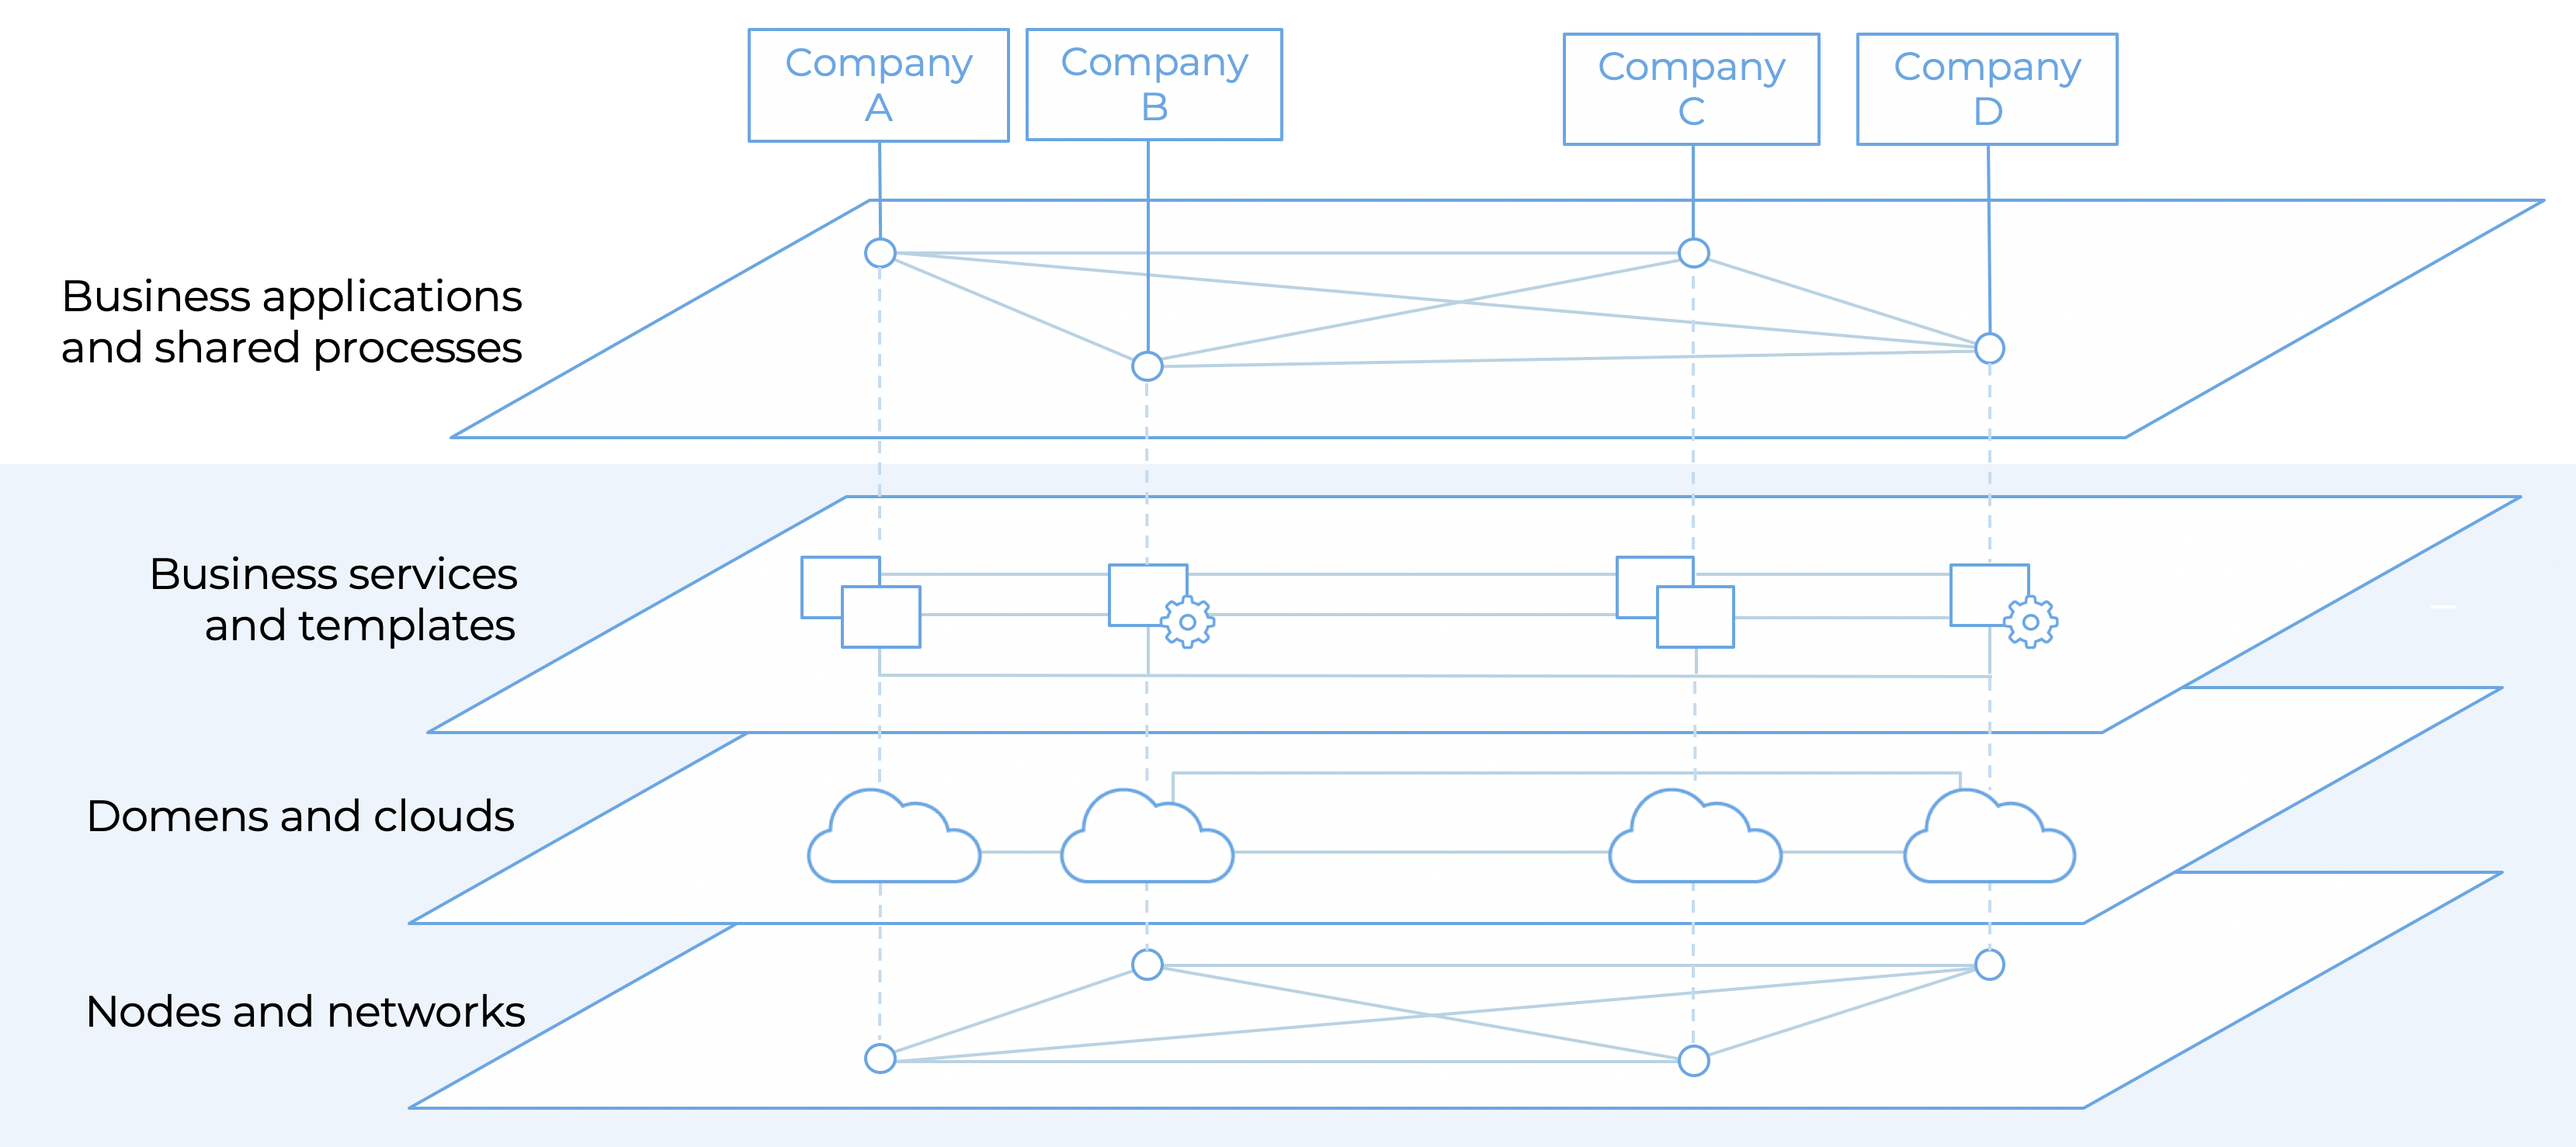
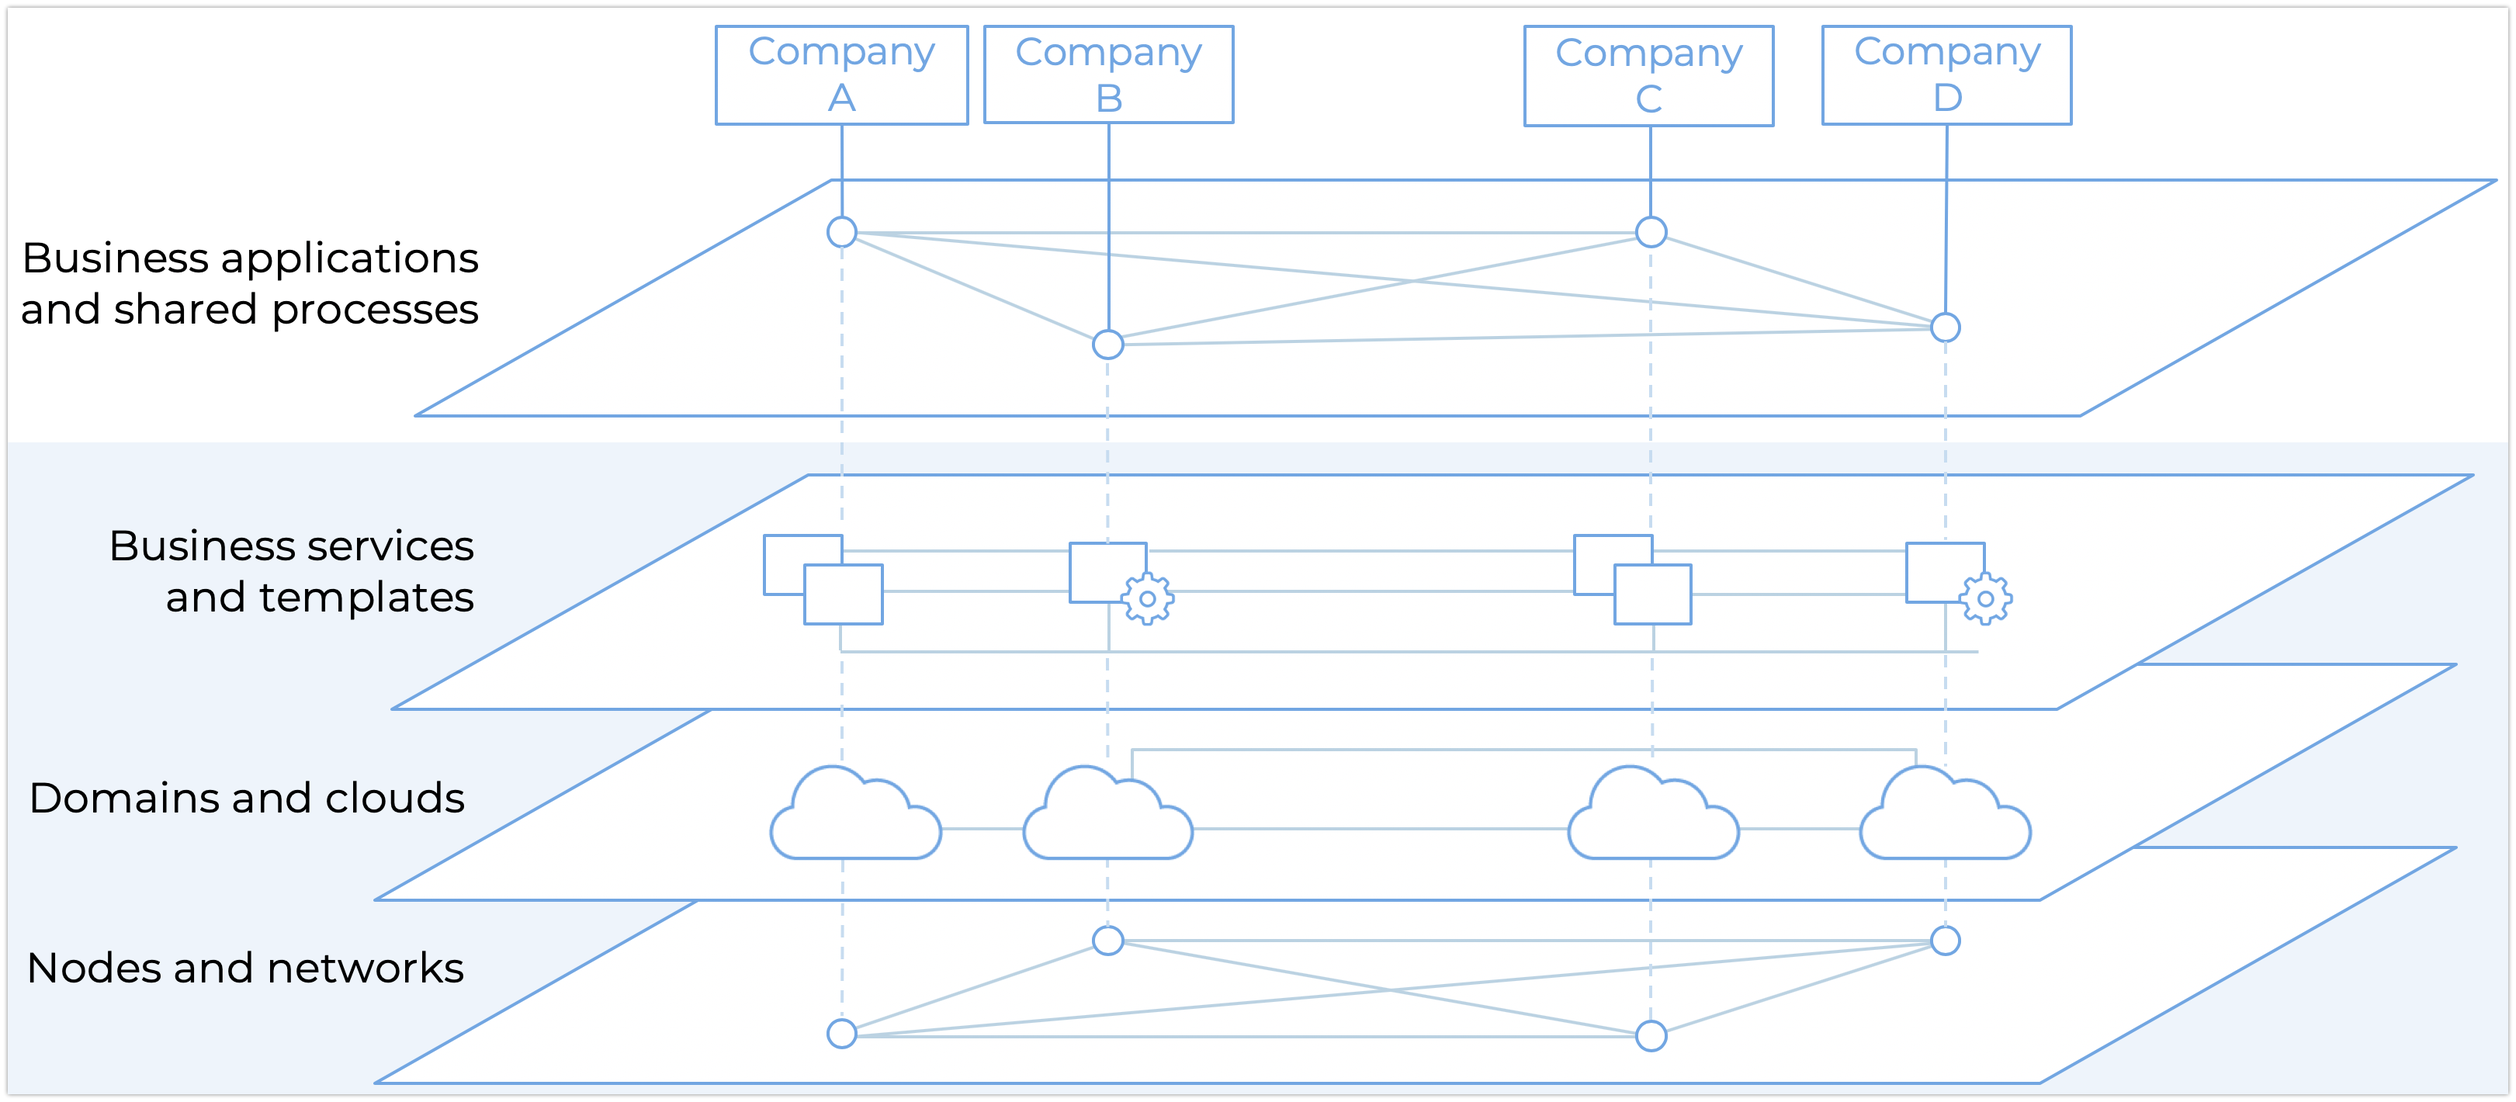
Red pill upds

diff --git a/docs/source/basics.rst b/docs/source/basics.rst
@@ -13,7 +13,14 @@ To understand Insolar, let's zoom out and take a look at the big picture.
 The Big Picture
 ---------------
 
-Below is an illustration of the layered architecture that facilitates such a collaborative environment. The use of multilayer architecture makes platform design a challenging task, but with proper use it enables building complex solutions with better control of development risks and, later, ownership costs. Insolar is currently designing the proposed platform in an incremental fashion allowing it to progressively grow into the ultimate decentralized collaborative environment for various kinds of industries, companies, governments, and communities.
+Every enterprise (actor), however big and reliable, is having a hard time:
+
+* convincing its counterparties that they (the actor) should hold a centralized database and define the rules of processing;
+* maintaining a centralized database and being responsible for all business processes and their automation.
+
+These pains go away with a blockchain or, more strictly, DLT: it effectively shifts away those responsibilities from one single actor to a decentralized setup while ensuring the consistency and behavior of both the infrastructure and all actors involved, trusted or malicious. The problem with most DLTs is that they do not keep the needs of enterprises in mind from the very beginning. Conversely, Insolar's goal is to make blockchain easy-to-use for any enterprise, big or small.
+
+Below is an illustration of the layered architecture that Insolar introduces to address this problem. The use of multilayer architecture makes platform design a challenging task, but with proper use it enables building complex solutions with better control of development risks and, later, ownership costs. Insolar is currently designing the proposed platform in an incremental fashion allowing it to progressively grow into the ultimate decentralized collaborative environment for various kinds of industries, companies, governments, and communities.
 
 .. figure:: imgs/layers.png
    :width: 900 px
@@ -24,31 +31,24 @@ The architecture is split into four layers:
 
 * At the top layer are distributed applications (:ref:`contracts <contracts>`) owned by and tailored for companies who serve other companies.
 * The next layer represents business services and templates for business applications provided by vendors.
-* At the third layer are :ref:`clouds <fed_of_clouds>` and :ref:`domains <domains>`. Cloud infrastructure can be public and offered by governments or even communities as a public good (crowd-sourced computational resources) and domains serve as governing tools.
+* At the third layer are :ref:`clouds <fed_of_clouds>` and :ref:`domains <domains>`. Cloud infrastructure can be public and offered by governments or even communities as a public good (crowd-sourced computational resources) and domains serve as governance tools.
 * At the bottom layer are providers of :ref:`hardware capacities <globulas>` organized into national and/or industrial compute & storage resources.
 
 Insolar focuses its research & development in the three bottom layers making the top one easy to use for enterprises wishing to integrate with the Insolar's blockchain.
 
-To achieve scalability and transparency from the ground up, Insolar introduces several design aspects to its bottom layer.
+To achieve scalability and transparency from the ground up, Insolar introduces several design aspects to its bottom layer. To understand them, let's dive in the complexities of decentralization.
 
-.. _processing_and_persistence:
+.. _centralization_vs_decentralization:
 
-Processing & Persistence
-------------------------
-
-Every actor (enterprise), however big and reliable, is having a hard time:
-
-* convincing its counterparties that they (the actor) should hold a centralized database and define the rules of processing;
-* maintaining a centralized database and being responsible for all business processes and their automation.
-
-These pains go away with a blockchain or, more strictly, DLT: it effectively shifts away those responsibilities from one single actor to a decentralized setup while ensuring the consistency and behavior of both the infrastructure and all actors involved, trusted or malicious.
+Centralization vs. Decentralization
+-----------------------------------
 
 Broadly, existing blockchains and DLTs offer two major opposing approaches to processing data:
 
 .. _two_approaches:
 
-* **Approach 1**: Data is validated by “miners” and recorded by all nodes. In this approach, the said data is available to all nodes, and decentralization here comes at the cost of low network throughput and high computation expenses.
-* **Approach 2**: Occurs some sort of centralized processing involving only a subset of nodes. This approach offers higher throughput rates but involves the network transferring potentially large objects and raises questions regarding centralization.
+* **Approach 1**: Data is processed by “miners” and recorded by "full" nodes. In this approach, the said data is available to all nodes, and decentralization here comes at the cost of low network throughput and high computation expenses.
+* **Approach 2**: Data is processed in a centralized way involving only a subset of nodes. This approach offers higher throughput rates but involves the network transferring potentially large objects and raises questions regarding centralization.
 
 Insolar extends the latter approach by introducing the benefits of the former via its omni-scaling feature.
 
@@ -59,9 +59,9 @@ Omni-Scaling
 
 Omni-scaling is an integral feature that utilizes:
 
-* a :ref:`multi-role model of nodes <multi_role_nodes>`,
-* a :ref:`multichain organization of storage <objects>`, and
-* an innovative approach to :ref:`distributing work <network_consensus>` across the network.
+* :ref:`Multi-role model of nodes <multi_role_nodes>`.
+* :ref:`Multichain organization of storage <objects>`.
+* Innovative approach to :ref:`distributing work <network_consensus>` across the network.
 
 Omni-scaling spans both processing and persistence parts of the :ref:`bottom layer <big_pic>`.
 
@@ -70,9 +70,14 @@ Omni-scaling spans both processing and persistence parts of the :ref:`bottom lay
 Processing
 ^^^^^^^^^^
 
-Insolar lives on the principle of actions **executed by one, validated by many** and the network works in cycles — or, in Insolar's terms, :term:`pulses <pulse>`.
+Insolar lives on the principle of actions **executed by one, validated by many**.
 
-Pulses synchronize the network, happen every several seconds (10 by default), and carry entropy — a random piece of information that the network uses to select an executor and, on the next pulse, a set of validators for each transaction to be processed. The :ref:`consensus <network_consensus>` protocol ensures that no :ref:`executor can validate <virtual_execution_validation>` its own output, and no node can predict the nature of its workload during the next pulse. If a transaction takes longer than one pulse, the executor node has to receive a permission to continue execution (from the would-be executor of the next pulse). The amount of validators can be tuned according to the perceived value at risk of the transaction to process.
+The network randomizes (:term:`using pulses <pulse>`) the selection of both:
+
+* an executor for each processing cycle;
+* and, in the next cycle, a set of validators for each transaction to be processed.
+
+The :ref:`consensus <network_consensus>` protocol ensures that no :ref:`executor can validate <virtual_execution_validation>` its own output, and no node can predict the nature of its workload during the next cycle. If a transaction takes longer than one cycle, the executor node has to receive a permission to continue execution (from the would-be executor of the next cycle). The amount of validators can be tuned according to the perceived value at risk of the transaction to process.
 
 Both executors & validators are :ref:`virtual nodes <virtual>` with :ref:`dynamic roles <dynamic_roles>`, and together they make up the processing part of the :ref:`bottom layer <big_pic>`.
 
@@ -90,9 +95,12 @@ Persistence
 
 If we want to track a complex transaction in its entirety, then, with regards to storage, nothing is really out of scope. All data pertaining to a transaction are relevant and, ideally, should be stored together. This includes, if need be, the incoming documents which trigger transactions. A common approach is to store the heavy documents off-chain, referencing them with a hash. Insolar can store any documents on-chain — that provides additional guarantees for contexts where it is important but makes storage more expensive.
 
-To counter this shortcoming, Insolar divides the nodes that carry the persistence layer into light & heavy material nodes.
+To ease the burden of having to store large objects on-chain, Insolar:
 
-Light nodes are responsible for building blocks and connecting them into chains as well as forming units of :ref:`physical storage <ledger>` — :term:`jet drops <jet drop>`. :ref:`Light material nodes <light_material>` act effectively as a cache over a predefined (configurable) amount of pulses, while :ref:`heavy material nodes <heavy_material>` provide the cold, long-term storage. This allows to avoid tapping into the cold storage for frequently accessed objects. Only material nodes can access the stored data — virtual nodes have to request access from light nodes which serve as a cache.
+* minimizes the number of nodes having to access such objects as described in the :ref:`processing section <processing>`.
+* divides the nodes that carry the persistence layer into light & heavy material nodes, acting as hot & cold storage respectively.
+
+Light nodes are responsible for building blocks and connecting them into chains as well as forming units of :ref:`physical storage <ledger>` — :term:`jet drops <jet drop>`. :ref:`Light material nodes <light_material>` act effectively as a cache over a predefined (configurable) amount of processing cycles, while :ref:`heavy material nodes <heavy_material>` provide the long-term storage. This allows to avoid tapping into the cold storage for frequently accessed objects. Only material nodes can access the stored data — virtual nodes have to request access from light nodes which serve as a cache.
 
 One would argue that to process an object, it must be eventually brought up from cold storage which is expensive. But Insolar does it in a very limited number of cases and only from heavy to light material nodes. The nodes still need to pass the data, but again: only the nodes (a configurable number) that are directly involved in the processing of said data. Conversely, in common-style blockchain platforms, the full network processes and exchanges data.
 
@@ -124,6 +132,6 @@ Technically, a :term:`domain <domain>` is a special smart contract that defines 
 * location (e.g., geographical) in which smart contracts can be executed and their results stored;
 * consensus rules for validation to configure processing costs (number of validation nodes and/or algorithms) versus value at risk; etc.
 
-Since Insolar's code is open-sourced, it can be deployed and used publicly in a permissionless setup. But any enterprise that requires a private setup and permissioned access can deploy such a setup with carefully implemented domains. Additionally, domains offer enough flexibility to allow the deployment of hybrid public/private networks with complex permissioning schemes.
+Since Insolar's code is open-sourced, it can be deployed and used publicly in a permissionless setup. But all the enterprises require a private setup and permissioned access even on already deployed public networks. This is a major obstacle on the path of blockchain adoption. Insolar will overcome this problem by using carefully implemented domains as they offer enough flexibility to allow the deployment of hybrid public/private networks with complex permissioning schemes.
 
 To continue the deep dive into Insolar's technologies, take a closer look at its :ref:`architecture <architecture>`.
